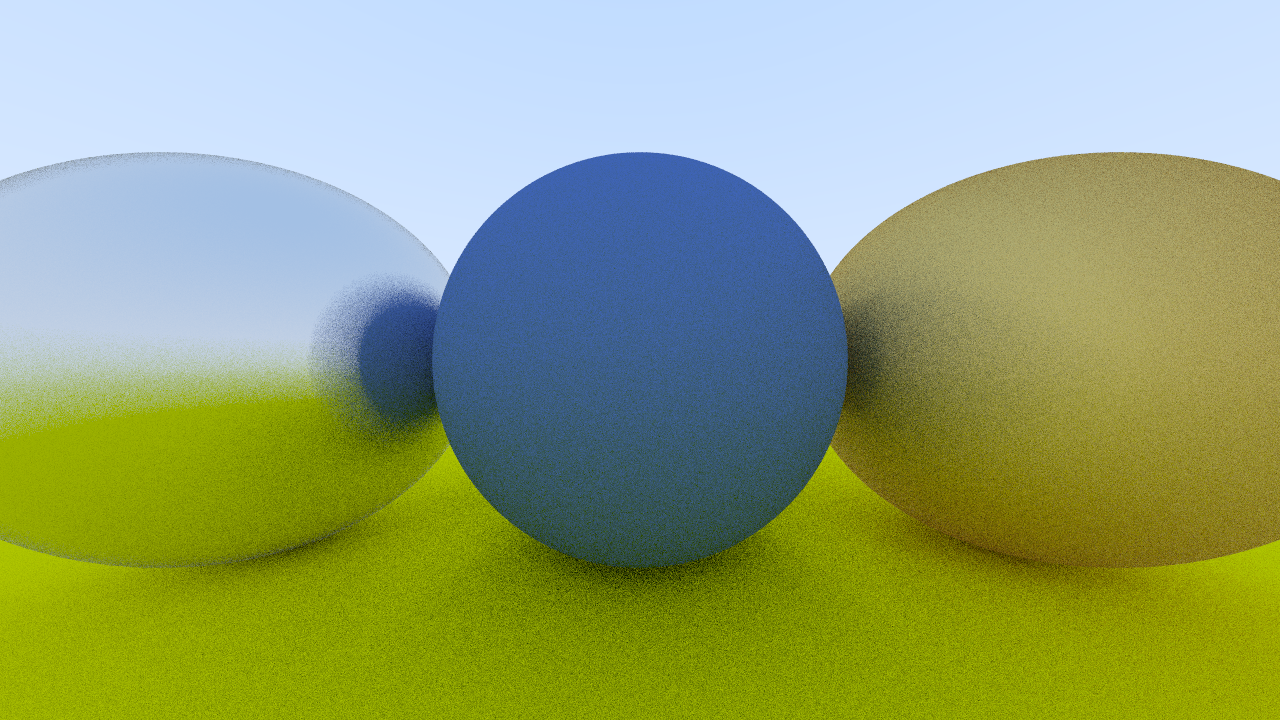
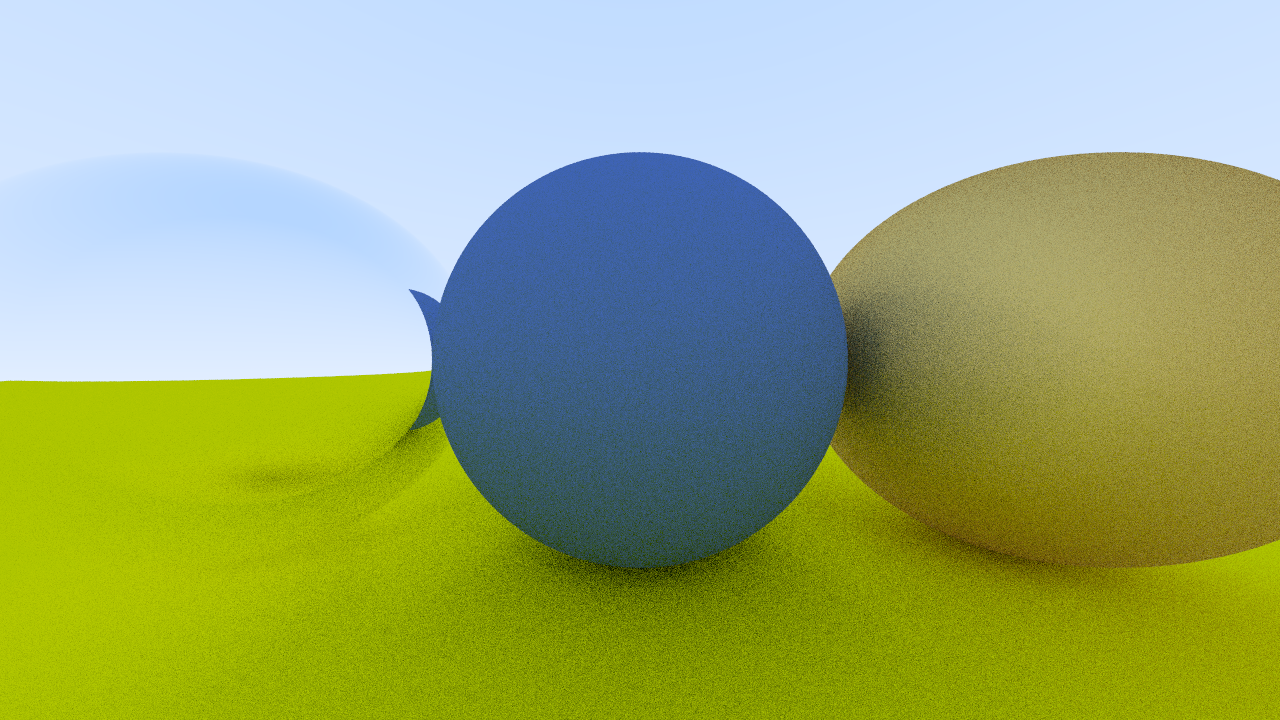
Added Dielectrics

diff --git a/src/material.rs b/src/material.rs
@@ -53,3 +53,37 @@ impl Material for Metal {
         Some((Ray::new(hit.point, direction), self.albedo))
     }
 }
+
+pub struct Dielectric {
+    refractive_index: f64,
+}
+
+impl Dielectric {
+    pub fn new(refractive_index: f64) -> Self {
+        Dielectric { refractive_index }
+    }
+}
+
+impl Material for Dielectric {
+    fn scatter(&self, ray: &Ray, hit: &Hit) -> Option<(Ray, DVec3)> {
+        // Assume surrounding medium is 1.0 (air)
+        // eta is the ratio of the refractive indexes
+        let eta = if hit.front_face {
+            1.0 / self.refractive_index
+        } else {
+            self.refractive_index
+        };
+
+        // Set upper limit to 1.0 due to rounding errors
+        let cos_theta = (-ray.direction.dot(hit.normal)).min(1.0);
+        let sin_theta = (1.0 - cos_theta * cos_theta).sqrt();
+
+        let direction = if eta * sin_theta > 1.0 {
+            ray.direction.reflect(hit.normal)
+        } else {
+            ray.direction.refract(hit.normal, eta)
+        };
+
+        Some((Ray::new(hit.point, direction), DVec3::ONE))
+    }
+}

diff --git a/src/main.rs b/src/main.rs
@@ -2,7 +2,7 @@ use std::{sync::Arc, time::Instant};
 
 use core::f64;
 use glam::{dvec3, DVec3};
-use material::{Lambertian, Metal};
+use material::{Dielectric, Lambertian, Metal};
 
 use crate::{camera::Camera, hittable::HittableList, sphere::Sphere};
 
@@ -22,7 +22,7 @@ fn main() {
 
     let material_ground = Arc::new(Lambertian::new(dvec3(0.8, 0.8, 0.0)));
     let material_center = Arc::new(Lambertian::new(dvec3(0.1, 0.2, 0.5)));
-    let material_left = Arc::new(Metal::new(dvec3(0.8, 0.8, 0.8), 0.3));
+    let material_left = Arc::new(Dielectric::new(0.75));
     let material_right = Arc::new(Metal::new(dvec3(0.8, 0.6, 0.2), 1.0));
 
     world.add(Sphere::new(

diff --git a/src/vec.rs b/src/vec.rs
@@ -15,6 +15,6 @@ pub fn approx_zero(a: DVec3) -> bool {
     approx_zero_with_error(a, ERROR)
 }
 
-pub fn approx_eq(a:DVec3, b: DVec3) -> bool {
+pub fn approx_eq(a: DVec3, b: DVec3) -> bool {
     approx_eq_with_error(a, b, ERROR)
 }
